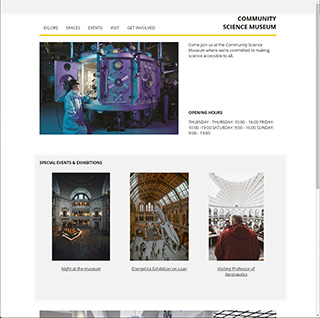
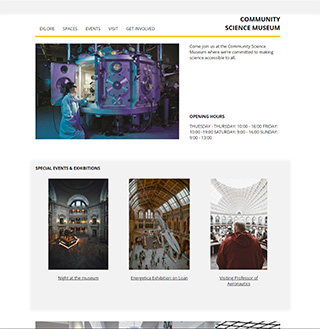
Clean up css and ad links to cards
- Add more info on project cars
- clean up styling
- replace a-tag with list on card-container
- Fix images to a cleaner outline

diff --git a/styles.css b/styles.css
@@ -1,9 +1,21 @@
+@font-face {
+  font-family: "Segoe UI";
+  src: local("Segoe UI"),
+    url(//c.s-microsoft.com/static/fonts/segoe-ui/west-european/normal/latest.woff2) format("woff2"),
+    url(//c.s-microsoft.com/static/fonts/segoe-ui/west-european/normal/latest.woff) format("woff"),
+    url(//c.s-microsoft.com/static/fonts/segoe-ui/west-european/normal/latest.ttf)
+      format("truetype");
+  font-weight: 400;
+}
+
 body {
   max-width: 1080px;
   margin: auto;
+  margin-top: 50px;
+  font-size: 16px;
 }
 
-.intro-wrapper {
+.intro-container {
   background-color: black;
   border-radius: 20px;
   display: flex;
@@ -13,13 +25,18 @@ body {
   justify-content: space-around;
 }
 
-.text-content {
-  color: white;
-  padding: 20px;
+.intro-container h1 {
+  font-size: 2.5rem;
+  font-style: italic;
 }
 
-.img {
-  background-image: url("images/ProfilbildeHvit.jpg");
+.intro-container .text-content {
+  color: white;
+  padding: 20px;
+  max-width: 500px;
+}
+
+.intro-container img {
   background-size: cover;
   width: 340px;
   border-radius: 50%;
@@ -27,34 +44,95 @@ body {
   align-self: center;
 }
 
-.card-container-wrapper {
+.card-container {
   display: flex;
   flex-wrap: wrap;
   justify-content: space-between;
+  margin: 20px;
+  padding: 0;
 }
 
-.card-container-wrapper a {
+.card-container li {
   text-decoration: none;
-  color: black;
+  color: white;
+  background-color: black;
+  margin-top: 50px;
+  list-style: none;
+  display: flex;
+  flex-direction: column;
+  width: 320px;
+  box-shadow: 0 4px 8px 0 rgba(0, 0, 0, 0.2);
+  transition: 0.3s;
+  text-align: center;
 }
 
-.card-container-wrapper a:hover {
+.card-container li:hover {
   box-shadow: 0 8px 16px 0 rgba(0, 0, 0, 0.2);
 }
 
-.card-container {
-  width: 320px;
-  height: 400px;
-  box-shadow: 0 4px 8px 0 rgba(0, 0, 0, 0.2);
-  transition: 0.3s;
-  margin: 20px;
+.card-container img {
+  height: 335px;
 }
 
 .card-container h1 {
-  padding-left: 20px;
+  font-size: 1.5rem;
+  font-weight: 100;
+  margin-bottom: 0;
 }
 
-img {
-  width: 100%;
-  height: 335px;
+.link-container {
+  margin-bottom: 1rem;
+}
+
+.card-container a {
+  color: #d6249f;
+  padding: 10px;
+  margin: 10px;
+  text-decoration: none;
+}
+
+.card-container a:hover {
+  text-decoration: underline;
+}
+
+.instagram-icon {
+  font-size: 1.4rem;
+  margin-left: 10px;
+  width: 25px;
+  height: 25px;
+  text-align: center;
+  border-radius: 4px;
+  color: #fff;
+  line-height: 25px !important;
+  vertical-align: middle;
+
+  background: radial-gradient(
+    circle at 30% 107%,
+    #fdf497 0%,
+    #fdf497 5%,
+    #fd5949 45%,
+    #d6249f 60%,
+    #285aeb 90%
+  );
+  box-shadow: 0px 3px 10px rgba(0, 0, 0, 0.25);
+}
+
+.instagram-icon:hover {
+  background: #d6249f;
+}
+
+@media (max-width: 1032px) {
+  body {
+    margin-top: 0;
+  }
+
+  .intro-container {
+    border-radius: 0 0 20px 20px;
+  }
+
+  .card-container {
+    align-items: center;
+    flex-direction: column;
+    justify-content: center;
+  }
 }

diff --git a/index.html b/index.html
@@ -10,30 +10,63 @@
     />
     <title>Portfolio</title>
     <link href="styles.css" rel="stylesheet" />
+    <script src="https://kit.fontawesome.com/90297555d7.js" crossorigin="anonymous"></script>
   </head>
   <body>
-    <section class="intro-wrapper">
-      <div class="text-content">
-        <h1>My personal portfolio</h1>
-        <p>Marit - Front-end developer</p>
-      </div>
-      <div class="img"></div>
-    </section>
     <main>
-      <div class="card-container-wrapper">
-        <a href="" class="card-container cross-course-project">
-          <img src="images/RainyDaysHomepage.jpg" />
+      <header></header>
+      <section class="intro-container">
+        <div class="text-content">
+          <h1>Marit Andreassen</h1>
+          <p>Working as a front-end developer in Brønnøysund, Norway.</p>
+          <p>
+            I have a bachelor`s degree in Information Technology at NTNU and have recently finished
+            my first year studying Front-end developement at Noroff.
+          </p>
+          <p>
+            I am an active soul and I love the outdoors. You will clearly see what I live for in my
+            projects.
+          </p>
+          <p>
+            In this portfolio I have presented my three main projects for my year studying at
+            Noroff. Click the card to enter the project on my GitHub.
+          </p></br>
+          <p>Contact me at <a aria-label="instagram" href="https://www.instagram.com/marit.andr/">
+            <i class="fa fa-instagram instagram-icon"></i></a>
+          </p>
+        </div>
+        <img src="images/ProfilbildeHvit.jpg" alt=""/>
+      </section>
+
+      <ul class="card-container">
+        <li>
+          <img src="images/RainyDaysHomepage.jpg" alt=""/>
           <h1>Cross-course Project</h1>
-        </a>
-        <a href="" class="card-container semester-project">
-          <img src="images/CommunityScienceMuseum.jpg" />
+          <p>Something</p>
+          <div class="link-container">
+            <a href="">Visit webpage</a>
+          <a href="">GitHub</a>
+          </div>
+        </li>
+        <li>
+          <img src="images/CommunityScienceMuseum.jpg" alt=""/>
           <h1>Semester Project 1</h1>
-        </a>
-        <a href="" class="card-container exam">
-          <img src="images/ExamHomepage.jpg" />
+          <p>A website for an interactive science museum.</p>
+          <div class="link-container">
+            <a href="">Visit webpage</a>
+          <a href="">GitHub</a>
+          </div>
+        </li>
+        <li>
+          <img src="images/ExamHomepage.jpg" alt=""/>
           <h1>Project Exam 1</h1>
-        </a>
-      </div>
+          <p>blablabla</p>
+          <div class="link-container">
+            <a href="">Visit webpage</a>
+          <a href="">GitHub</a>
+          </div>
+        </li>
+      </ul>
       <footer></footer>
     </main>
   </body>
